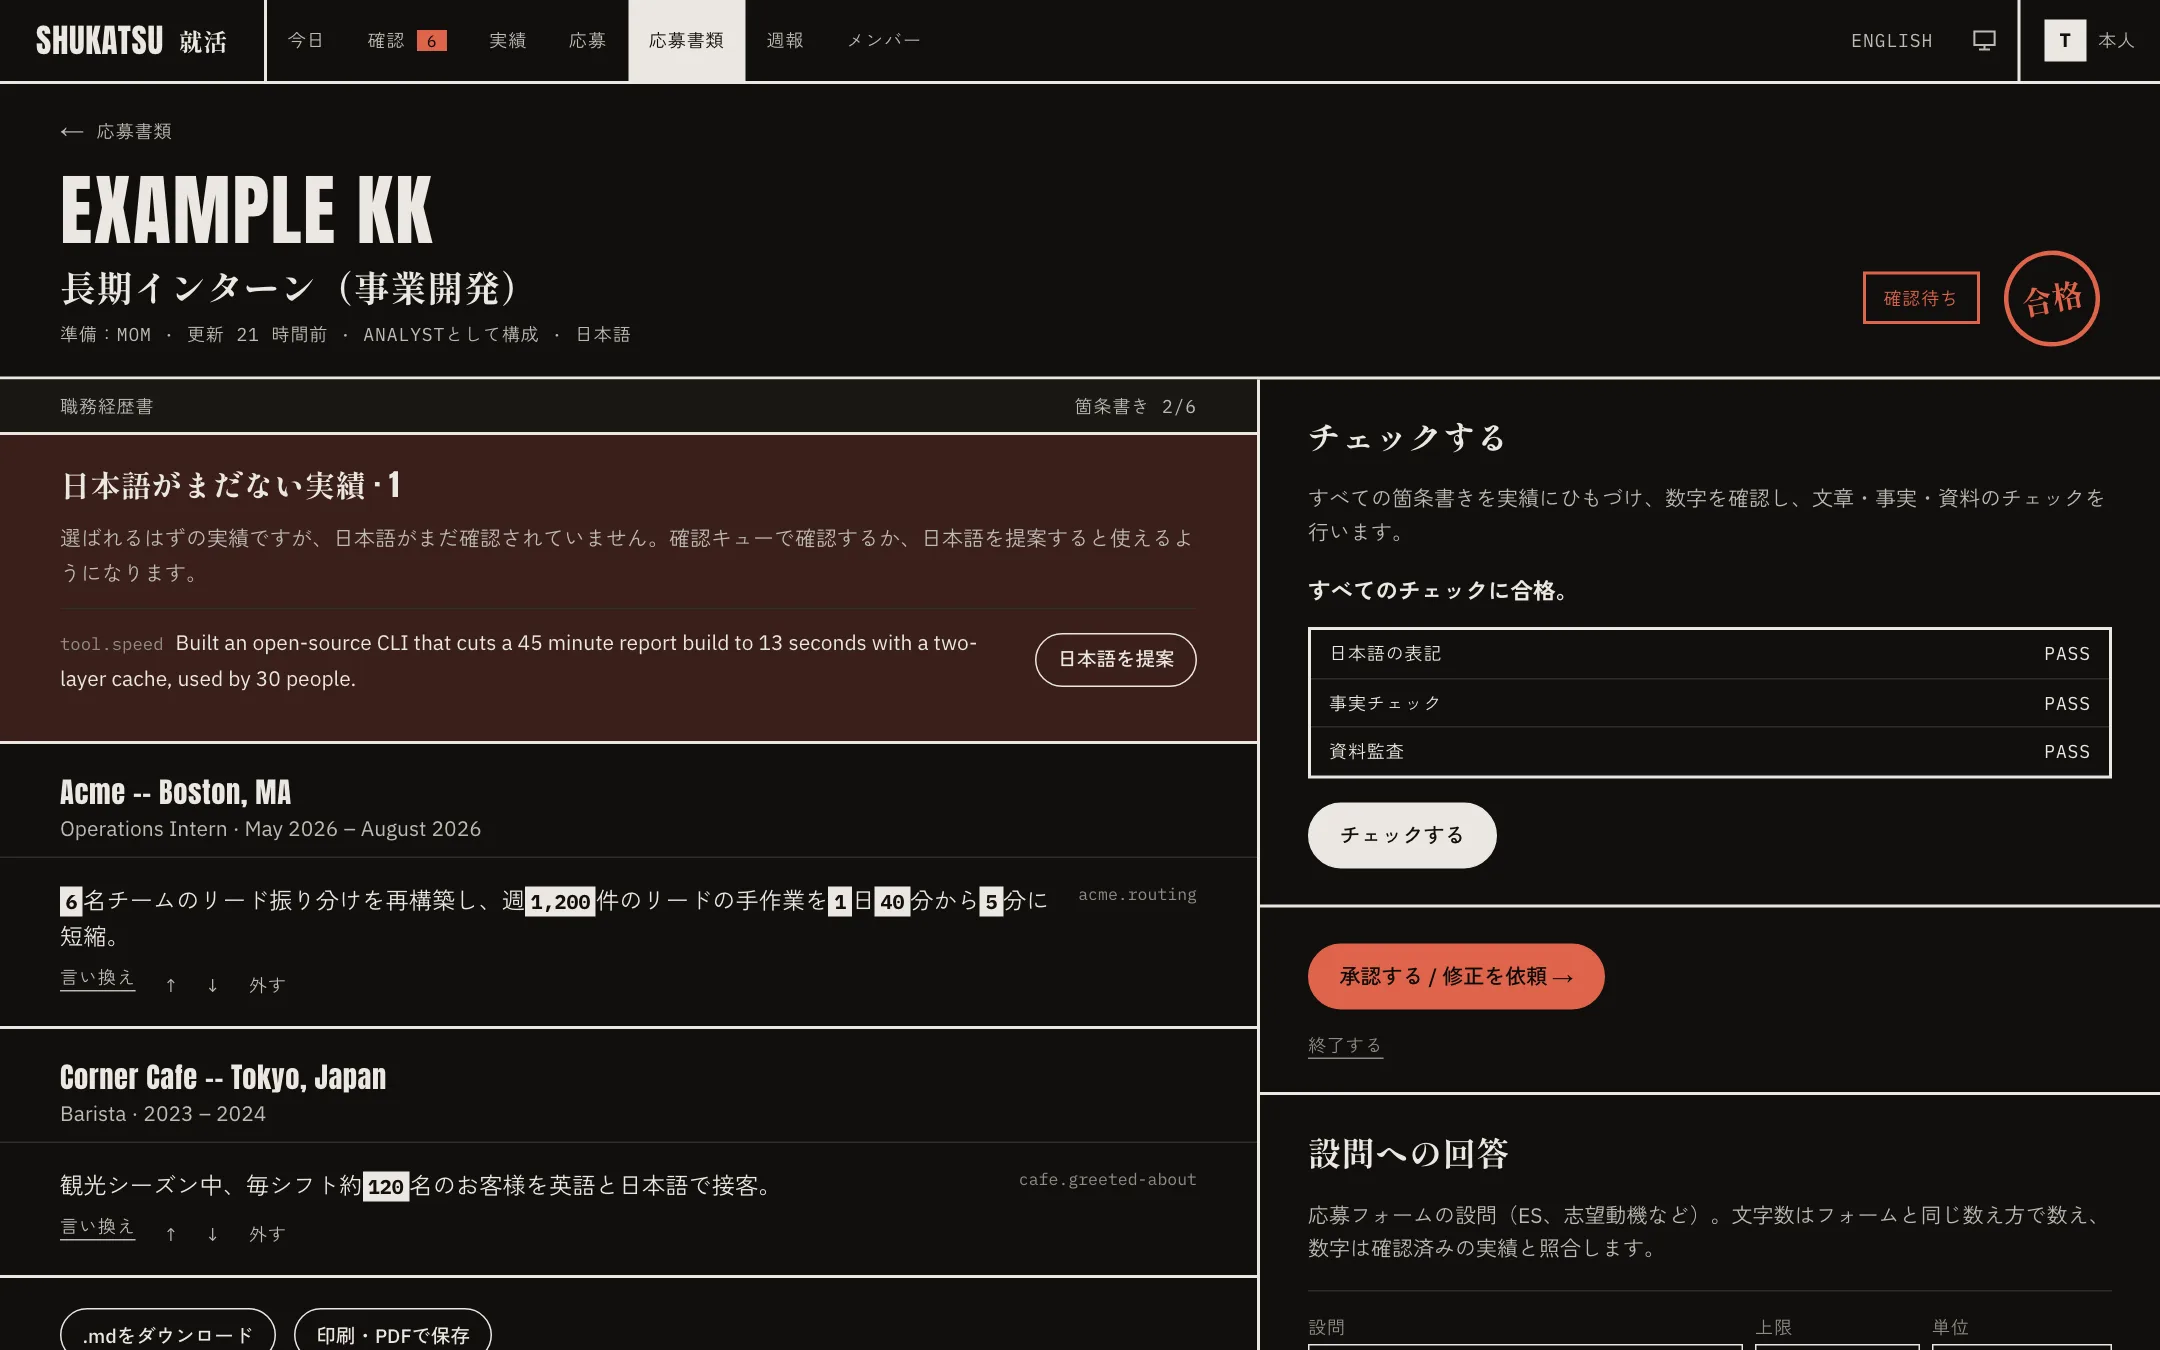
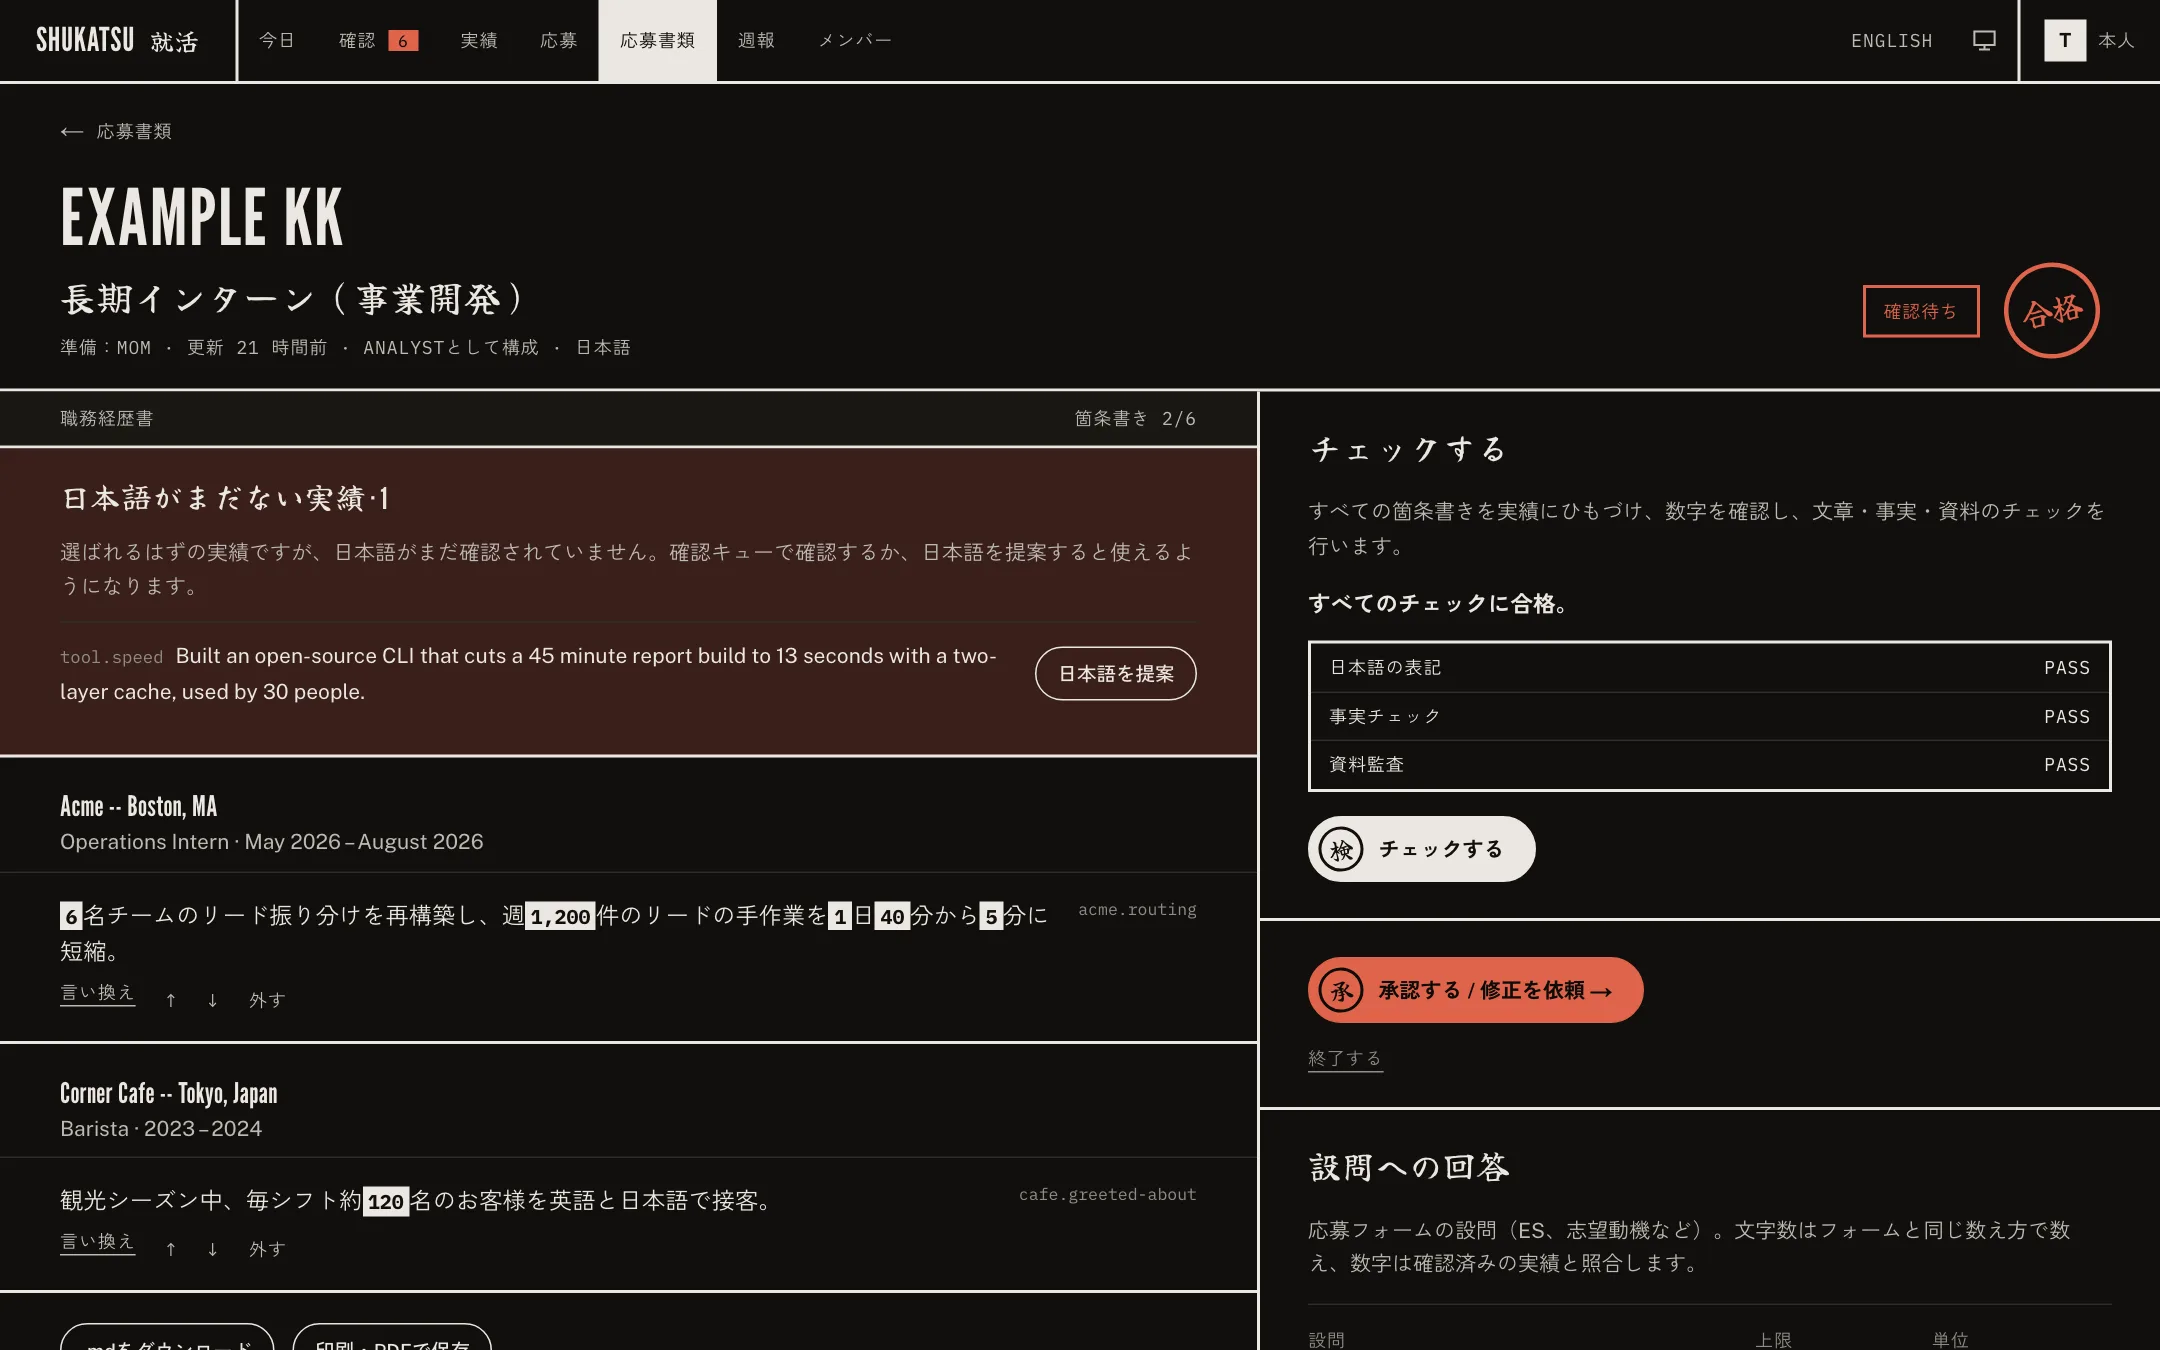
feat(site): the page takes the new type and the seals
The page declares the same five faces as the app, the review demo's answers
carry the app's seals, and the two main actions carry 宅 and 源. The
wordmark grows to 26px because League Gothic sets lighter than Anton. The
screenshots, the share image and the touch icon are retaken in the new type.

diff --git a/site/app/_lib/fonts.ts b/site/app/_lib/fonts.ts
@@ -1,13 +1,13 @@
-import { Anton, IBM_Plex_Mono, IBM_Plex_Sans, Shippori_Mincho, Zen_Kaku_Gothic_New } from "next/font/google";
+import { IBM_Plex_Mono, League_Gothic, Public_Sans, Yuji_Syuku, Zen_Kaku_Gothic_New } from "next/font/google";
 
 // The app's voices (../shukatsu/src/app/layout.tsx), declared again here
 // because next/font runs per app. Keep the two lists the same: the shared
 // Ledger parts (generated/ledger.css) name these five variables. next/font
 // self-hosts them at build time, so the page makes no font request to anyone.
-export const display = Anton({ variable: "--font-display", weight: "400", subsets: ["latin"] });
-export const body = IBM_Plex_Sans({ variable: "--font-body", subsets: ["latin"], weight: ["400", "500", "600", "700"] });
+export const display = League_Gothic({ variable: "--font-display", subsets: ["latin"] });
+export const body = Public_Sans({ variable: "--font-body", subsets: ["latin"], weight: ["400", "500", "600", "700"] });
 export const mono = IBM_Plex_Mono({ variable: "--font-mono", subsets: ["latin"], weight: ["400", "500", "700"] });
-export const displayJa = Shippori_Mincho({ variable: "--font-display-ja", weight: "800", subsets: ["latin"], preload: false });
+export const displayJa = Yuji_Syuku({ variable: "--font-display-ja", weight: "400", subsets: ["latin"], preload: false });
 export const bodyJa = Zen_Kaku_Gothic_New({ variable: "--font-body-ja", weight: ["400", "500", "700"], subsets: ["latin"], preload: false });
 
 export const fontVars = `${display.variable} ${body.variable} ${mono.variable} ${displayJa.variable} ${bodyJa.variable}`;

diff --git a/site/components/ReviewDemo.tsx b/site/components/ReviewDemo.tsx
@@ -11,6 +11,13 @@ import type { Dict, Outcome } from "@/content/copy";
 import { Claim, figureCount } from "./Claim";
 
 const ORDER: Outcome[] = ["accept", "correct", "narrative", "unsure"];
+// The kanji each answer presses, as in the app: 確認, 直す, 残す, 不明.
+const SEAL: Record<Outcome, string> = { accept: "確", correct: "直", narrative: "残", unsure: "不" };
+const Seal = ({ k }: { k: string }) => (
+  <span className="seal" aria-hidden>
+    {k}
+  </span>
+);
 const FIGURES = /\d+(?:,\d{3})*(?:\.\d+)?/g;
 const figures = (s: string): string[] => s.match(FIGURES) ?? [];
 
@@ -125,6 +132,7 @@ export function ReviewDemo({ t }: { t: Dict["review"] }) {
                       aria-expanded={form ? open === o : undefined}
                       onClick={() => choose(o)}
                     >
+                      <Seal k={SEAL[o]} />
                       {label}
                       {key && <kbd>{key}</kbd>}
                     </button>
@@ -140,6 +148,7 @@ export function ReviewDemo({ t }: { t: Dict["review"] }) {
                   <textarea id="review-wording" ref={field} className="review__field" rows={3} value={draft} onChange={(e) => setDraft(e.target.value)} />
                   <div>
                     <button type="submit" className="btn">
+                      <Seal k={SEAL[open]} />
                       {open === "correct" ? t.submitEdit : t.submitNarrative}
                     </button>
                   </div>

diff --git a/site/components/Landing.tsx b/site/components/Landing.tsx
@@ -76,6 +76,9 @@ export function Landing({ t, locale }: { t: Dict; locale: Locale }) {
           </div>
           <div className="hero__action">
             <a href={SETUP_URL} className="btn btn-lg">
+              <span className="seal" aria-hidden>
+                宅
+              </span>
               {t.hero.cta}
             </a>
             <a href="#how" className="hero__more">
@@ -223,6 +226,9 @@ export function Landing({ t, locale }: { t: Dict; locale: Locale }) {
             <p className="screen__sub">{t.open.body}</p>
             <div className="end__action">
               <a href={REPO_URL} className="btn btn-lg">
+                <span className="seal" aria-hidden>
+                  源
+                </span>
                 {t.open.cta}
               </a>
               <p className="end__note">

diff --git a/site/app/globals.css b/site/app/globals.css
@@ -138,6 +138,15 @@ a.label:hover {
   padding: 0 28px;
   font-size: 15px;
 }
+.btn-lg:has(> .seal) {
+  padding-left: 8px;
+  gap: 12px;
+}
+.btn-lg > .seal {
+  width: 34px;
+  height: 34px;
+  font-size: 18px;
+}
 
 /* A section's eyebrow is a ledger heading: its number, its name, and a short
    ink rule over both. */
@@ -182,7 +191,7 @@ a.label:hover {
 }
 .bar__word {
   font-family: var(--font-display), sans-serif;
-  font-size: 22px;
+  font-size: 26px;
   line-height: 1;
   letter-spacing: 0.04em;
 }
